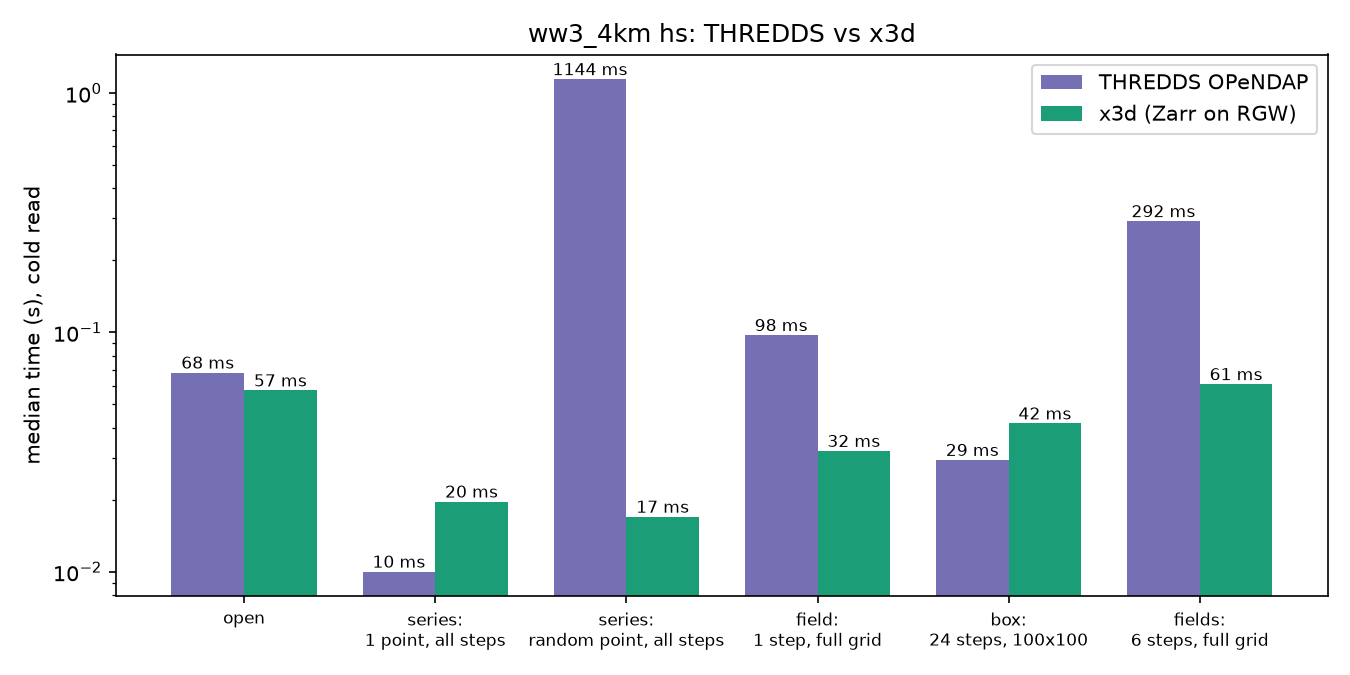
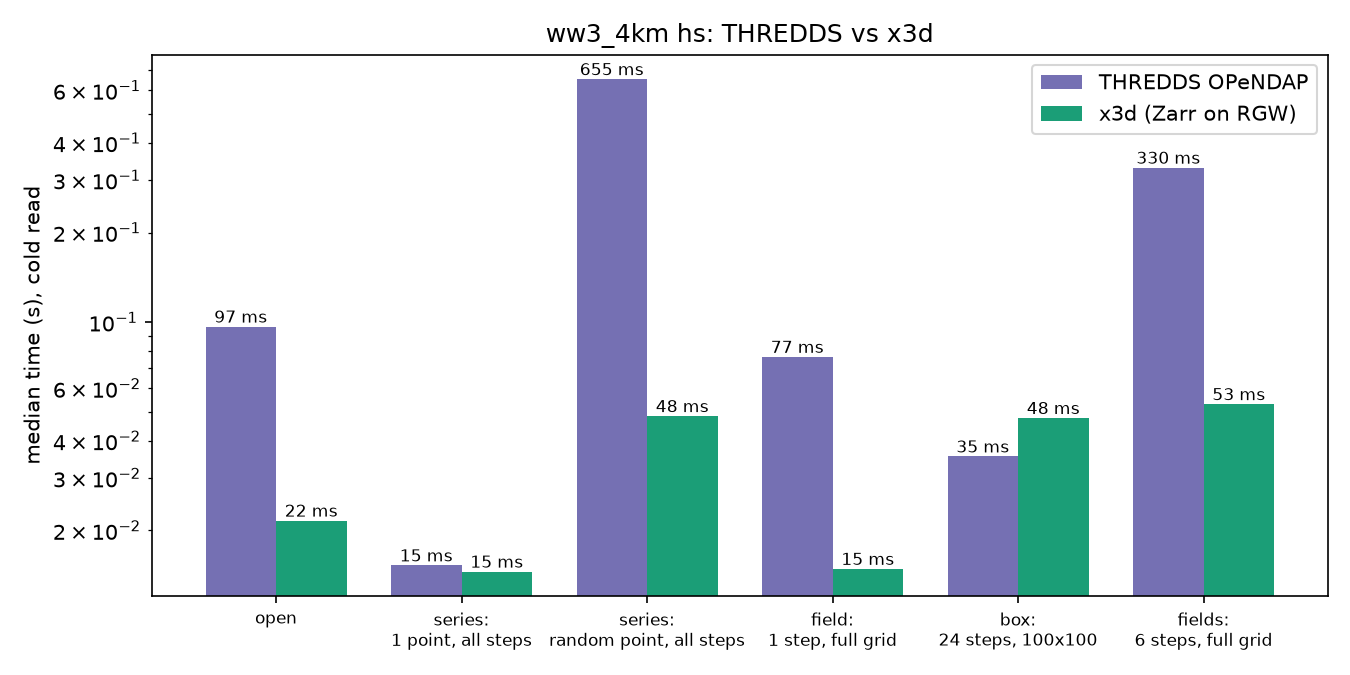
Profile reads, share one HTTP agent, add X3D_THREADS
Array.read_profiled reports index/fetch/decode/copy time; tests/test_microbench.py
shows RGW reads are network-bound. A fresh ureq agent per Store cost ~15 ms
(TLS + DNS) per variable: share one agent per process. Regenerate plot.

diff --git a/src/array.rs b/src/array.rs
@@ -5,13 +5,20 @@ use crate::error::{Error, Result};
 use crate::store::{ByteRange, Store};
 use serde_json::Value;
 use std::collections::HashMap;
+use std::sync::atomic::{AtomicU64, Ordering::Relaxed};
 use std::sync::{Arc, Mutex, OnceLock};
+use std::time::Instant;
 
-/// Concurrency is bound by network latency, not CPU, so use more threads than cores.
+/// Concurrency is bound by network latency, not CPU, so use more threads than cores
+/// (`X3D_THREADS` overrides).
 fn pool() -> &'static rayon::ThreadPool {
     static POOL: OnceLock<rayon::ThreadPool> = OnceLock::new();
     POOL.get_or_init(|| {
-        let n = std::thread::available_parallelism().map(|n| n.get()).unwrap_or(4).max(16);
+        let n = std::env::var("X3D_THREADS")
+            .ok()
+            .and_then(|v| v.parse::<usize>().ok())
+            .filter(|&n| n > 0)
+            .unwrap_or_else(|| std::thread::available_parallelism().map(|n| n.get()).unwrap_or(4).max(16));
         rayon::ThreadPoolBuilder::new()
             .num_threads(n)
             .thread_name(|i| format!("x3d-io-{i}"))
@@ -194,6 +201,26 @@ fn parse_codecs(list: &[Value]) -> Result<Codecs> {
 
 type Index = Option<Arc<Vec<(u64, u64)>>>;
 
+/// Where one read spent its time. The `*_ns` fields are summed over all threads, so compared with
+/// `wall_ns` they show how much work was done in parallel (and what the work consisted of).
+#[derive(Debug, Default)]
+pub struct Profile {
+    /// Shard index requests (cold ones only).
+    pub index_ns: AtomicU64,
+    /// Waiting for the store: HTTP round trip + body, or the file read.
+    pub fetch_ns: AtomicU64,
+    pub decode_ns: AtomicU64,
+    /// Copying a decoded chunk into the output, including the wait for the output lock.
+    pub scatter_ns: AtomicU64,
+    pub chunks: AtomicU64,
+    pub bytes_fetched: AtomicU64,
+    pub wall_ns: AtomicU64,
+}
+
+fn since(t: Instant, into: &AtomicU64) {
+    into.fetch_add(t.elapsed().as_nanos() as u64, Relaxed);
+}
+
 pub struct Array {
     store: Store,
     path: String,
@@ -285,12 +312,15 @@ impl Array {
     }
 
     /// Leaves (fetchable chunks) of one outer chunk that the selection touches.
-    fn leaves(&self, sel: &[Slice], outer: &[u64]) -> Result<Vec<Leaf>> {
+    fn leaves(&self, sel: &[Slice], outer: &[u64], prof: &Profile) -> Result<Vec<Leaf>> {
         let key = self.key(outer);
         let Layout::Sharded { inner, .. } = &self.meta.layout else {
             return Ok(vec![Leaf { origin: outer.iter().zip(&self.meta.chunks).map(|(i, c)| i * c).collect(), key, span: None }]);
         };
-        let Some(index) = self.shard_index(&key)? else { return Ok(vec![]) };
+        let t = Instant::now();
+        let index = self.shard_index(&key)?;
+        since(t, &prof.index_ns);
+        let Some(index) = index else { return Ok(vec![]) };
         let grid: Vec<u64> = self.meta.chunks.iter().zip(inner).map(|(c, i)| c / i).collect();
         let base: Vec<u64> = outer.iter().zip(&self.meta.chunks).map(|(i, c)| i * c).collect();
         // Per dimension, inner chunk indices (within the shard) that are selected.
@@ -319,18 +349,25 @@ impl Array {
         Ok(out)
     }
 
-    fn fetch(&self, leaf: &Leaf) -> Result<Option<Vec<u8>>> {
+    fn fetch(&self, leaf: &Leaf, prof: &Profile) -> Result<Option<Vec<u8>>> {
         let range = match leaf.span {
             None => ByteRange::Full,
             Some((start, len)) => ByteRange::Span { start, len },
         };
-        let Some(raw) = self.store.get(&leaf.key, range)? else { return Ok(None) };
+        let t = Instant::now();
+        let raw = self.store.get(&leaf.key, range)?;
+        since(t, &prof.fetch_ns);
+        let Some(raw) = raw else { return Ok(None) };
+        prof.bytes_fetched.fetch_add(raw.len() as u64, Relaxed);
+        prof.chunks.fetch_add(1, Relaxed);
+        let t = Instant::now();
         let expect = self.meta.leaf_shape().iter().product::<u64>() as usize * self.meta.itemsize;
         let data = if self.meta.codecs.zstd {
             zstd::bulk::decompress(&raw, expect).map_err(|e| Error::Corrupt(format!("{}: {e}", leaf.key)))?
         } else {
             raw
         };
+        since(t, &prof.decode_ns);
         if data.len() != expect {
             return Err(Error::Corrupt(format!("{}: chunk is {} bytes, expected {expect}", leaf.key, data.len())));
         }
@@ -339,7 +376,13 @@ impl Array {
 
     /// Read a strided hyperslab as C-ordered little-endian bytes. Missing chunks read as the fill value.
     pub fn read(&self, sel: &[Slice]) -> Result<Vec<u8>> {
+        self.read_profiled(sel).map(|(out, _)| out)
+    }
+
+    pub fn read_profiled(&self, sel: &[Slice]) -> Result<(Vec<u8>, Profile)> {
         use rayon::prelude::*;
+        let started = Instant::now();
+        let prof = Profile::default();
         self.check(sel)?;
         let out_shape: Vec<u64> = sel.iter().map(Slice::len).collect();
         let n: usize = out_shape.iter().product::<u64>() as usize;
@@ -349,7 +392,7 @@ impl Array {
             out.chunks_exact_mut(isz).for_each(|c| c.copy_from_slice(&self.meta.fill));
         }
         if n == 0 {
-            return Ok(out);
+            return Ok((out, prof));
         }
 
         let per_dim: Vec<Vec<u64>> = sel.iter().zip(&self.meta.chunks).map(|(s, &c)| touched(s, c)).collect();
@@ -360,17 +403,20 @@ impl Array {
         let leaf_shape = self.meta.leaf_shape().to_vec();
         pool().install(|| {
             outer.par_iter().try_for_each(|o| -> Result<()> {
-                let leaves = self.leaves(sel, o)?;
+                let leaves = self.leaves(sel, o, &prof)?;
                 leaves.par_iter().try_for_each(|leaf| -> Result<()> {
-                    if let Some(data) = self.fetch(leaf)? {
+                    if let Some(data) = self.fetch(leaf, &prof)? {
+                        let t = Instant::now();
                         let mut out = out.lock().unwrap();
                         scatter(&data, &leaf.origin, &leaf_shape, sel, &out_shape, isz, &mut out);
+                        since(t, &prof.scatter_ns);
                     }
                     Ok(())
                 })
             })
         })?;
-        Ok(out.into_inner().unwrap())
+        since(started, &prof.wall_ns);
+        Ok((out.into_inner().unwrap(), prof))
     }
 }
 

diff --git a/tests/test_microbench.py b/tests/test_microbench.py
@@ -1,0 +1,82 @@
+"""Where does a read spend its time: fetching, decoding or copying?
+
+    pytest tests/test_microbench.py -s -m "rgw or store"
+
+`Array.read_profiled` times, per read and summed over the worker threads, the shard index requests, the
+store fetches (HTTP round trip + body, or the file read), zstd decoding, and the copy into the output.
+Compare the sums with `wall`: ``busy`` = (index + fetch + decode + scatter) / wall is how many threads
+were kept busy on average. The local store takes the network out, which leaves decode + copy as the CPU cost.
+Each read starts from a fresh `Array`, so shard indexes are cold. `X3D_THREADS=n` changes the pool size.
+"""
+
+from __future__ import annotations
+
+import json
+import os
+import statistics
+
+import pytest
+
+from conftest import RGW_URL, WAVE_WORLD_STORE
+from x3d._core import Array, Store
+from x3d.backend import _arrays, open_run
+
+ROUNDS = int(os.environ.get("X3D_BENCH_ROUNDS", 5))
+KEYS = ("wall", "index", "fetch", "decode", "scatter")
+
+# (layout, selection per dim of (time, rlat, rlon) as slices)
+SCENARIOS = {
+    "series: 1 point, all steps": ("ts", [(0, None, 1), (500, 501, 1), (300, 301, 1)]),
+    "field: 1 step, full grid": ("map", [(10, 11, 1), (0, None, 1), (0, None, 1)]),
+    "box: 24 steps, 100x100": ("ts", [(0, 24, 1), (400, 500, 1), (200, 300, 1)]),
+    "fields: 6 steps, full grid": ("map", [(0, 6, 1), (0, None, 1), (0, None, 1)]),
+}
+rows: list[tuple] = []
+
+
+def profile(root: str, layout: str, sel, var="hs") -> dict:
+    run = open_run(root, layouts=(layout,))
+    meta = _arrays(run.metas[layout])[var]
+    sel = [(a, n if b is None else b, st) for (a, b, st), n in zip(sel, meta["shape"])]
+    runs = []
+    for _ in range(ROUNDS):
+        arr = Array(Store(run.layout_location(layout)), var, json.dumps(meta))
+        _, p = arr.read_profiled(sel)
+        runs.append(p)
+    med = {k: statistics.median(p[k] for p in runs) for k in KEYS}
+    med["chunks"] = runs[0]["chunks"]
+    med["MB"] = runs[0]["bytes_fetched"] / 1e6
+    return med
+
+
+@pytest.fixture(scope="module", autouse=True)
+def report():
+    yield
+    if not rows:
+        return
+    head = f"{'':34}{'store':6}{'wall':>8}{'index':>8}{'fetch':>8}{'decode':>8}{'scatter':>8}{'busy':>6}{'chunks':>8}{'MB':>7}   (ms, medians of {ROUNDS})"
+    print("\n" + head)
+    for name, store, m in rows:
+        busy = sum(m[k] for k in KEYS[1:]) / m["wall"]
+        print(
+            f"{name:34}{store:6}" + "".join(f"{m[k] * 1e3:8.1f}" for k in KEYS)
+            + f"{busy:6.1f}{m['chunks']:8d}{m['MB']:7.2f}"
+        )
+
+
+@pytest.mark.parametrize("scenario", SCENARIOS)
+@pytest.mark.rgw
+def test_profile_rgw(rgw_url, scenario):
+    layout, sel = SCENARIOS[scenario]
+    m = profile(rgw_url, layout, sel)
+    rows.append((scenario, "rgw", m))
+    assert m["chunks"] > 0 and m["wall"] > 0
+
+
+@pytest.mark.parametrize("scenario", SCENARIOS)
+@pytest.mark.store
+def test_profile_local(wave_world_store, scenario):
+    layout, sel = SCENARIOS[scenario]
+    m = profile(str(WAVE_WORLD_STORE), layout, sel)
+    rows.append((scenario, "local", m))
+    assert m["chunks"] > 0 and m["wall"] > 0

diff --git a/src/store.rs b/src/store.rs
@@ -4,7 +4,7 @@ use crate::error::{Error, Result};
 use std::io::{Read, Seek, SeekFrom};
 use std::collections::HashMap;
 use std::path::PathBuf;
-use std::sync::Mutex;
+use std::sync::{Mutex, OnceLock};
 use std::time::{Duration, Instant};
 use ureq::Agent;
 use ureq::config::Config;
@@ -54,17 +54,27 @@ pub enum Store {
 
 const RETRIES: usize = 3;
 
-impl Store {
-    /// `root` is an `http(s)://` URL, a `file://` URL or a plain path.
-    pub fn open(root: &str) -> Store {
-        if root.starts_with("http://") || root.starts_with("https://") {
+/// One agent for the whole process: every variable opens its own `Store`, and a fresh agent means a
+/// new TLS connection and DNS lookup (~15 ms) for the first read of each.
+fn shared_agent() -> Agent {
+    static AGENT: OnceLock<Agent> = OnceLock::new();
+    AGENT
+        .get_or_init(|| {
             let config = Agent::config_builder()
                 .http_status_as_error(false)
                 .timeout_global(Some(Duration::from_secs(60)))
                 .max_idle_connections_per_host(32)
                 .build();
-            let agent = Agent::with_parts(config, DefaultConnector::default(), CachingResolver::default());
-            Store::Http { base: root.trim_end_matches('/').to_string(), agent }
+            Agent::with_parts(config, DefaultConnector::default(), CachingResolver::default())
+        })
+        .clone()
+}
+
+impl Store {
+    /// `root` is an `http(s)://` URL, a `file://` URL or a plain path.
+    pub fn open(root: &str) -> Store {
+        if root.starts_with("http://") || root.starts_with("https://") {
+            Store::Http { base: root.trim_end_matches('/').to_string(), agent: shared_agent() }
         } else {
             let p = root.strip_prefix("file://").unwrap_or(root);
             Store::File { root: PathBuf::from(p) }

diff --git a/src/lib.rs b/src/lib.rs
@@ -7,7 +7,7 @@ mod store;
 
 use numpy::{IntoPyArray, PyArray1};
 use pyo3::prelude::*;
-use pyo3::types::PyBytes;
+use pyo3::types::{PyBytes, PyDict};
 
 use crate::array::{Array, Meta, Slice};
 use crate::store::{ByteRange, Store};
@@ -80,6 +80,23 @@ impl PyArray {
         let sel = slices(sel);
         let out = py.detach(|| self.0.read(&sel))?;
         Ok(out.into_pyarray(py))
+    }
+
+    /// Like `read_raw`, plus a dict of where the time went (seconds, summed over threads except `wall`).
+    fn read_profiled<'py>(&self, py: Python<'py>, sel: Vec<(u64, u64, u64)>) -> PyResult<(Bound<'py, PyArray1<u8>>, Bound<'py, PyDict>)> {
+        use std::sync::atomic::Ordering::Relaxed;
+        let sel = slices(sel);
+        let (out, p) = py.detach(|| self.0.read_profiled(&sel))?;
+        let d = PyDict::new(py);
+        let secs = |a: &std::sync::atomic::AtomicU64| a.load(Relaxed) as f64 * 1e-9;
+        d.set_item("wall", secs(&p.wall_ns))?;
+        d.set_item("index", secs(&p.index_ns))?;
+        d.set_item("fetch", secs(&p.fetch_ns))?;
+        d.set_item("decode", secs(&p.decode_ns))?;
+        d.set_item("scatter", secs(&p.scatter_ns))?;
+        d.set_item("chunks", p.chunks.load(Relaxed))?;
+        d.set_item("bytes_fetched", p.bytes_fetched.load(Relaxed))?;
+        Ok((out.into_pyarray(py), d))
     }
 }
 

diff --git a/todo.md b/todo.md
@@ -1,7 +1,8 @@
 ## usage
 - [ ] does local store (x3d+file) work symmetrically to the s3 version?
 - [x] engine in the URL: `xr.open_dataset("x3d+https://...")` works through `guess_can_open`; tested and used in the README and tests.
-- [ ] concurrent reads + parallel decompression: already done (rayon pool of >=16 threads fetching and zstd-decoding, GIL released). To do: measure the fetch vs decode split, add an `X3D_THREADS` knob, and avoid serialising `scatter` under the output `Mutex`.
+- [x] concurrent reads + parallel decompression: reads are already parallel (rayon pool, GIL released). `tests/test_microbench.py` (`Array.read_profiled`) shows that on RGW the time is the network (fetch summed over threads is 100s of ms; decode + copy are 2-8 ms even for 6 full fields), so no further decode/scatter work is worth it. Findings: a fresh `Store` per variable cost ~15 ms (new TLS connection + DNS), now one process-wide HTTP agent is shared (open 55 -> 15 ms, point series 17 -> 6 ms, field 23 -> 11 ms); added `X3D_THREADS`.
+- [ ] remaining latency is round trips: cold shard-index fetch before every first chunk fetch (see the consolidated index sidecar below); box/field reads wait on ~10-50 parallel requests, so check coalescing neighbouring chunk ranges (a shard with `time=1` is one contiguous object).
 - [ ] `ov` accessor on the variable: `da.x3d.ov` (and `ds.x3d.ov`) returns the overview for the same time/space selection, so `ds.hs.x3d.ov.isel(time=0).plot()` works. Needs the source URL/run on `var.encoding`.
 
 ## metadata + coordinate optimization

diff --git a/README.md b/README.md
@@ -58,3 +58,7 @@ Tests (`tests/`):
   (`addopts = --benchmark-disable`: each case runs once as a plain test); `--benchmark-enable` measures,
   `--benchmark-only` runs only the benchmarks, and the bar plot goes to `docs/` (`X3D_BENCH_OUT`; rounds via
   `X3D_BENCH_ROUNDS`). A separate test checks both sources return the same numbers.
+- `tests/test_microbench.py` (`-m "rgw or store" -s`): where a read spends its time, from `Array.read_profiled`
+  (index requests, store fetches, zstd decode, copy into the output; thread-time summed, next to wall time), against
+  RGW and the local store. On RGW the wall time is fetching; decode + copy are a few ms even for six full fields,
+  so decoding is not the bottleneck. `X3D_THREADS` sets the size of the I/O + decode pool (default max(16, cores)).
